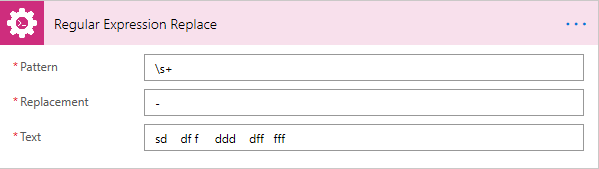
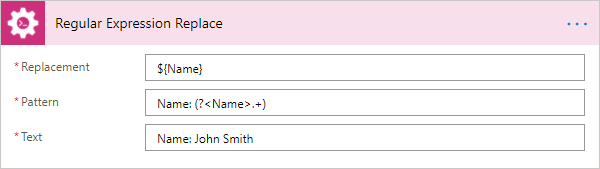
Backreference in RegExp replacement

diff --git a/source/flow/actions/sharepoint-processing.rst b/source/flow/actions/sharepoint-processing.rst
@@ -3438,7 +3438,7 @@ In a specified input string, replaces all strings that match a regular expressio
        -  Example
     *  -  Result
        -  Result string with replaced substrings that match a regular expression pattern.
-       -  ``sd-df-f-ddd-dff-fff``
+       -  ``John Smith``
 
 .. rubric:: Input Parameters
 
@@ -3452,15 +3452,15 @@ In a specified input string, replaces all strings that match a regular expressio
     *  -  Pattern
        -  Regular expression pattern. This pattern can contain inline options to modify behavior of the regular expression. Such options have to be placed in the beginning of the expression inside brackets with question mark: ``(?YOUR_OPTIONS)``. For example options ``(?mi)`` will allow to process multi line text with case insensitivity.   
           You can find additional information about inline options in the `MSDN article <http://msdn.microsoft.com/en-us/library/yd1hzczs%28v=vs.110%29.aspx>`_.     
-       -  ``\s+``
+       -  ``Name: (?<Name>.+)``
 
     *  -  Text
        -  String to search for matches.
-       -  ``sd    df f     ddd    dff   fff``   
+       -  ``Name: John Smith``   
 
     *  -  Replacement
-       -  Replacement string.
-       -  ``-`` 
+       -  Replacement string or `backreference <https://docs.microsoft.com/en-us/dotnet/standard/base-types/backreference-constructs-in-regular-expressions>`_. The name or number of a captured group should be put between braces in ``${}``.
+       -  ``${Name}`` 
 
 .. rubric:: Example
 
